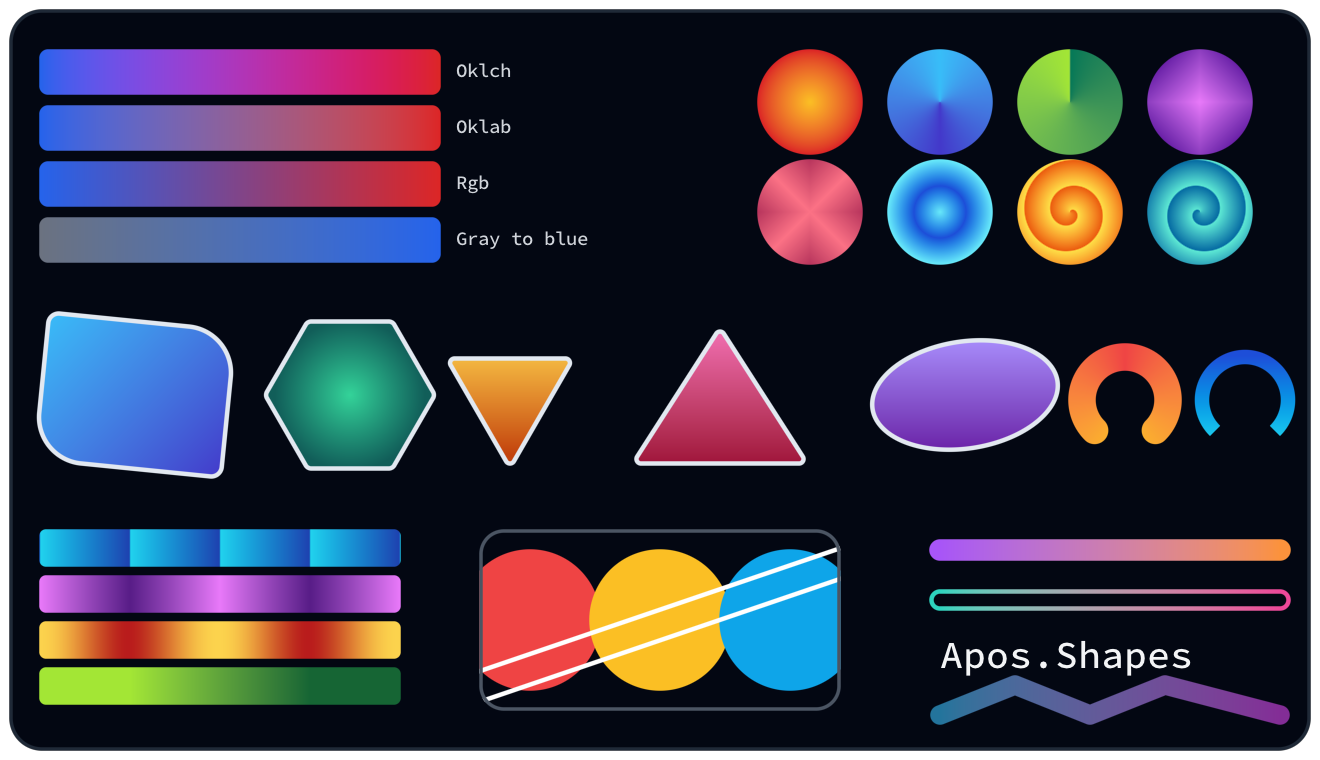
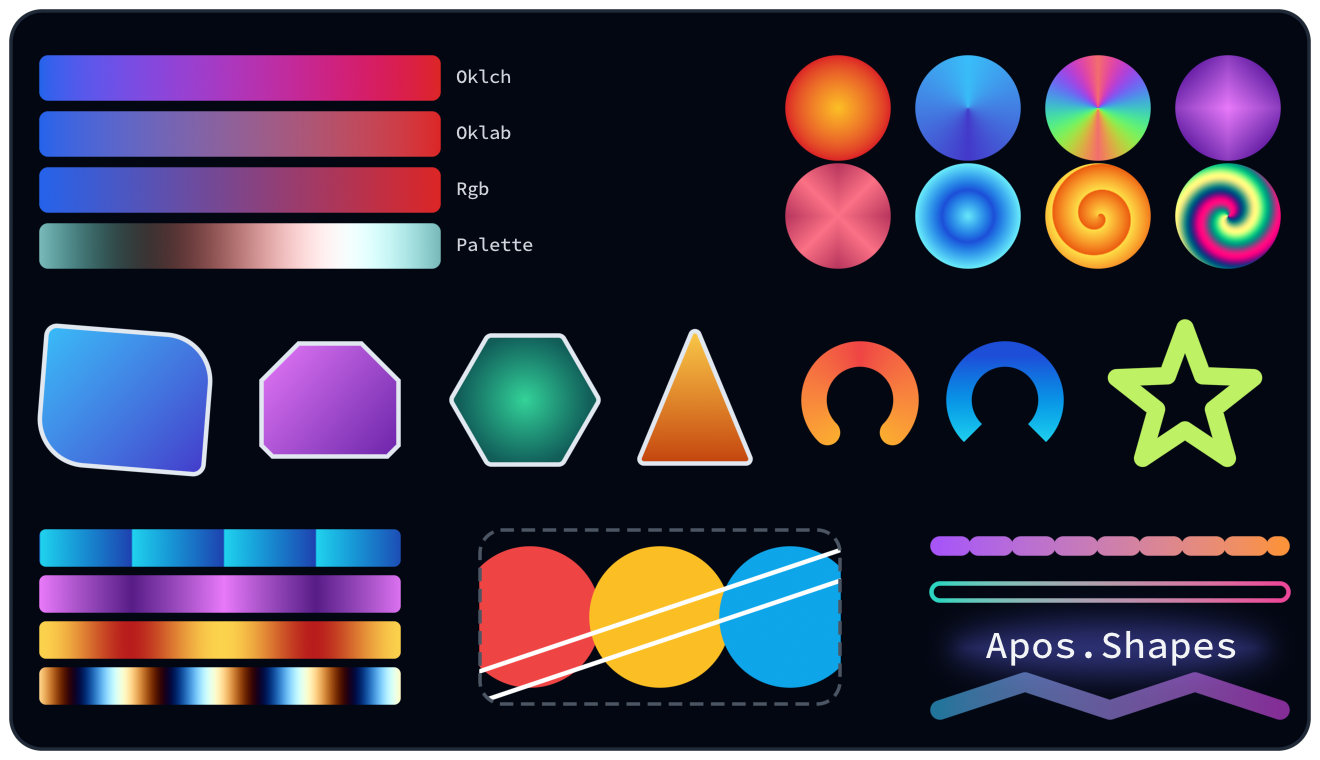
Redo showcase

diff --git a/Example/Game/GameRoot.cs b/Example/Game/GameRoot.cs
@@ -152,62 +152,79 @@ namespace GameProject {
         private void DrawMainScene(FontStashSharp.SpriteFontBase font, FontStashSharp.SpriteFontBase titleFont) {
             _sb.Begin(_camera.View);
 
-            // The same two colors interpolated in each supported color space.
+            float offset = _dashOffset;
+            var half = new Vector3(0.5f);
+            // Palettes from the classic parameter sets at iquilezles.org/articles/palettes, which
+            // are tuned for Rgb channels. The wheel and the bar lift the bias and shrink the
+            // amplitude so their troughs stay clear of the background.
+            var muted = new Palette(new Vector3(0.6f), new Vector3(0.4f), new Vector3(1f), new Vector3(0.3f, 0.2f, 0.2f));
+            var wheel = new Palette(new Vector3(0.6f), new Vector3(0.35f), new Vector3(1f), new Vector3(0f, 0.33f, 0.67f));
+            var candy = new Palette(half, half, new Vector3(2f, 1f, 0f), new Vector3(0.5f, 0.2f, 0.25f));
+
+            // The same two colors interpolated in each color space, then a cosine palette in the
+            // fourth bar.
             _sb.ColorSpace = ColorSpace.Oklch;
-            _sb.FillRectangle(new Vector2(-620, -330), new Vector2(400, 44), new Gradient(new Vector2(-620, -308), TWColor.Blue600, new Vector2(-220, -308), TWColor.Red600), 8f);
-            _sb.DrawString(font, "Oklch", new Vector2(-204, -322), TWColor.Gray300);
+            _sb.FillRectangle(new Vector2(-620, -324), new Vector2(400, 44), new Gradient(new Vector2(-620, -302), TWColor.Blue600, new Vector2(-220, -302), TWColor.Red600), 8f);
+            _sb.DrawString(font, "Oklch", new Vector2(-204, -316), TWColor.Gray300);
             _sb.ColorSpace = ColorSpace.Oklab;
-            _sb.FillRectangle(new Vector2(-620, -274), new Vector2(400, 44), new Gradient(new Vector2(-620, -252), TWColor.Blue600, new Vector2(-220, -252), TWColor.Red600), 8f);
-            _sb.DrawString(font, "Oklab", new Vector2(-204, -266), TWColor.Gray300);
+            _sb.FillRectangle(new Vector2(-620, -268), new Vector2(400, 44), new Gradient(new Vector2(-620, -246), TWColor.Blue600, new Vector2(-220, -246), TWColor.Red600), 8f);
+            _sb.DrawString(font, "Oklab", new Vector2(-204, -260), TWColor.Gray300);
             _sb.ColorSpace = ColorSpace.Rgb;
-            _sb.FillRectangle(new Vector2(-620, -218), new Vector2(400, 44), new Gradient(new Vector2(-620, -196), TWColor.Blue600, new Vector2(-220, -196), TWColor.Red600), 8f);
-            _sb.DrawString(font, "Rgb", new Vector2(-204, -210), TWColor.Gray300);
-            _sb.ColorSpace = ColorSpace.Oklch;
-            // Gray stops have no hue of their own, Oklch holds the blue hue steady.
-            _sb.FillRectangle(new Vector2(-620, -162), new Vector2(400, 44), new Gradient(new Vector2(-620, -140), TWColor.Gray500, new Vector2(-220, -140), TWColor.Blue600), 8f);
-            _sb.DrawString(font, "Gray to blue", new Vector2(-204, -154), TWColor.Gray300);
+            _sb.FillRectangle(new Vector2(-620, -212), new Vector2(400, 44), new Gradient(new Vector2(-620, -190), TWColor.Blue600, new Vector2(-220, -190), TWColor.Red600), 8f);
+            _sb.DrawString(font, "Rgb", new Vector2(-204, -204), TWColor.Gray300);
+            _sb.FillRectangle(new Vector2(-620, -156), new Vector2(400, 44), new Gradient(new Vector2(-620, -134), new Vector2(-220, -134), muted), 8f);
+            _sb.DrawString(font, "Palette", new Vector2(-204, -148), TWColor.Gray300);
             _sb.ColorSpace = ColorSpace.Oklab;
 
-            // Gradient shapes in a 4x2 grid, aligned vertically with the color space bars.
-            _sb.FillCircle(new Vector2(150, -278), 52, new Gradient(new Vector2(150, -278), TWColor.Amber400, new Vector2(202, -278), TWColor.Red600, Gradient.Shape.Radial));
-            _sb.FillCircle(new Vector2(280, -278), 52, new Gradient(new Vector2(280, -278), TWColor.Sky400, new Vector2(280, -330), TWColor.Indigo700, Gradient.Shape.Conical));
-            _sb.FillCircle(new Vector2(410, -278), 52, new Gradient(new Vector2(410, -278), TWColor.Lime400, new Vector2(410, -330), TWColor.Emerald700, Gradient.Shape.ConicalAsym));
-            _sb.FillCircle(new Vector2(540, -278), 52, new Gradient(new Vector2(540, -278), TWColor.Fuchsia400, new Vector2(503, -315), TWColor.Purple800, Gradient.Shape.Square));
-            _sb.FillCircle(new Vector2(150, -168), 52, new Gradient(new Vector2(150, -168), TWColor.Rose400, new Vector2(113, -131), TWColor.Pink800, Gradient.Shape.Cross));
-            _sb.FillCircle(new Vector2(280, -168), 52, new Gradient(new Vector2(280, -168), TWColor.Cyan300, new Vector2(306, -168), TWColor.Blue700, Gradient.Shape.Radial, Gradient.RepeatStyle.Triangle));
-            _sb.FillCircle(new Vector2(410, -168), 52, new Gradient(new Vector2(410, -168), TWColor.Yellow300, new Vector2(410, -194), TWColor.Orange600, Gradient.Shape.SpiralCW));
-            _sb.FillCircle(new Vector2(540, -168), 52, new Gradient(new Vector2(540, -168), TWColor.Teal300, new Vector2(540, -194), TWColor.Sky700, Gradient.Shape.SpiralCCW));
+            // Gradient shapes in a 4x2 grid that shares its top and bottom edges with the bars.
+            _sb.FillCircle(new Vector2(178, -272), 52, new Gradient(new Vector2(178, -272), TWColor.Amber400, new Vector2(230, -272), TWColor.Red600, Gradient.Shape.Radial));
+            _sb.FillCircle(new Vector2(308, -272), 52, new Gradient(new Vector2(308, -272), TWColor.Sky400, new Vector2(308, -324), TWColor.Indigo700, Gradient.Shape.Conical));
+            _sb.FillCircle(new Vector2(568, -272), 52, new Gradient(new Vector2(568, -272), TWColor.Fuchsia400, new Vector2(531, -309), TWColor.Purple800, Gradient.Shape.Square));
+            _sb.FillCircle(new Vector2(178, -164), 52, new Gradient(new Vector2(178, -164), TWColor.Rose400, new Vector2(141, -127), TWColor.Pink800, Gradient.Shape.Cross));
+            _sb.FillCircle(new Vector2(308, -164), 52, new Gradient(new Vector2(308, -164), TWColor.Cyan300, new Vector2(334, -164), TWColor.Blue700, Gradient.Shape.Radial, Gradient.RepeatStyle.Triangle));
+            _sb.FillCircle(new Vector2(438, -164), 52, new Gradient(new Vector2(438, -164), TWColor.Yellow300, new Vector2(438, -190), TWColor.Orange600, Gradient.Shape.SpiralCW));
+            // A palette rides the two color slots a pair of stops uses, so any gradient shape takes one.
+            _sb.ColorSpace = ColorSpace.Rgb;
+            _sb.FillCircle(new Vector2(438, -272), 52, new Gradient(new Vector2(438, -272), new Vector2(438, -324), wheel, Gradient.Shape.Conical));
+            _sb.FillCircle(new Vector2(568, -164), 52, new Gradient(new Vector2(568, -164), new Vector2(568, -216), candy, Gradient.Shape.SpiralCCW));
+            _sb.ColorSpace = ColorSpace.Oklab;
 
-            // Shapes with fills, borders, rounding and local gradients.
-            _sb.DrawRectangle(new Vector2(-620, -60), new Vector2(190, 150), new Gradient(new Vector2(0, 0), TWColor.Sky400, new Vector2(190, 150), TWColor.Indigo700, isLocal: true), TWColor.Slate200, 3f, new CornerRadii(12, 48, 12, 48), rotation: 0.1f);
-            _sb.DrawHexagon(new Vector2(-310, 15), 75, new Gradient(new Vector2(0, 0), TWColor.Emerald400, new Vector2(0, 75), TWColor.Teal800, Gradient.Shape.Radial, isLocal: true), TWColor.Slate200, 3f, rounded: 8f);
-            _sb.DrawEquilateralTriangle(new Vector2(-150, 15), 38, new Gradient(new Vector2(0, -60), TWColor.Amber300, new Vector2(0, 60), TWColor.Orange700, isLocal: true), TWColor.Slate200, 3f, rounded: 6f);
-            _sb.DrawTriangle(new Vector2(-30, 85), new Vector2(60, -55), new Vector2(150, 85), new Gradient(new Vector2(60, -55), TWColor.Pink400, new Vector2(60, 85), TWColor.Rose800), TWColor.Slate200, 3f, rounded: 6f);
-            _sb.DrawEllipse(new Vector2(305, 15), 95, 55, new Gradient(new Vector2(305, -40), TWColor.Violet400, new Vector2(305, 70), TWColor.Purple800), TWColor.Slate200, 3f, rotation: -0.15f);
-            _sb.FillArc(new Vector2(465, 20), MathF.PI * 0.75f, MathF.PI * 2.25f, 44, 13, new Gradient(new Vector2(465, 20), TWColor.Red500, new Vector2(465, -37), TWColor.Amber400, Gradient.Shape.Conical));
-            _sb.FillRing(new Vector2(585, 20), MathF.PI * 0.75f, MathF.PI * 2.25f, 44, 13, new Gradient(new Vector2(585, 64), TWColor.Cyan400, new Vector2(585, -24), TWColor.Blue700));
+            // One of each silhouette on a shared center line.
+            _sb.DrawRectangle(new Vector2(-620, -50), new Vector2(170, 140), new Gradient(new Vector2(0, 0), TWColor.Sky400, new Vector2(170, 140), TWColor.Indigo700, isLocal: true), TWColor.Slate200, 3f, new CornerRadii(12, 48, 12, 48), rotation: 0.08f);
+            _sb.DrawChamfer(new Vector2(-400, -38), new Vector2(140, 116), new CornerChamfers(38f, 38f, 12f, 12f), new Gradient(new Vector2(0, 0), TWColor.Fuchsia400, new Vector2(140, 116), TWColor.Purple800, isLocal: true), TWColor.Slate200, 3f);
+            _sb.DrawHexagon(new Vector2(-135, 20), 66, new Gradient(new Vector2(0, 0), TWColor.Emerald400, new Vector2(0, 66), TWColor.Teal800, Gradient.Shape.Radial, isLocal: true), TWColor.Slate200, 3f, rounded: 8f);
+            _sb.DrawTriangle(new Vector2(-25, 85), new Vector2(35, -60), new Vector2(95, 85), new Gradient(new Vector2(35, -60), TWColor.Amber300, new Vector2(35, 85), TWColor.Orange700), TWColor.Slate200, 3f, rounded: 6f);
+            _sb.FillArc(new Vector2(200, 20), MathF.PI * 0.75f, MathF.PI * 2.25f, 46, 12, new Gradient(new Vector2(200, 20), TWColor.Red500, new Vector2(200, -38), TWColor.Amber400, Gradient.Shape.Conical));
+            _sb.FillRing(new Vector2(345, 20), MathF.PI * 0.75f, MathF.PI * 2.25f, 46, 12, new Gradient(new Vector2(345, 64), TWColor.Cyan400, new Vector2(345, -24), TWColor.Blue700));
+            // A closed path wraps back on itself, and the wrap joint blends like any other.
+            _sb.FillPath(Star(new Vector2(525, 20), 72, 30, 5), 8, TWColor.Lime300, closed: true);
 
-            // Repeat styles, plus offsets that hold the end colors solid before the transition starts.
-            _sb.FillRectangle(new Vector2(-620, 150), new Vector2(360, 36), new Gradient(new Vector2(-620, 168), TWColor.Cyan400, new Vector2(-530, 168), TWColor.Blue800, Gradient.Shape.Linear, Gradient.RepeatStyle.Sawtooth), 6f);
-            _sb.FillRectangle(new Vector2(-620, 196), new Vector2(360, 36), new Gradient(new Vector2(-620, 214), TWColor.Fuchsia400, new Vector2(-530, 214), TWColor.Purple900, Gradient.Shape.Linear, Gradient.RepeatStyle.Triangle), 6f);
-            _sb.FillRectangle(new Vector2(-620, 242), new Vector2(360, 36), new Gradient(new Vector2(-620, 260), TWColor.Amber300, new Vector2(-530, 260), TWColor.Red700, Gradient.Shape.Linear, Gradient.RepeatStyle.Sine), 6f);
-            _sb.FillRectangle(new Vector2(-620, 288), new Vector2(360, 36), new Gradient(new Vector2(-620, 306), TWColor.Lime400, new Vector2(-260, 306), TWColor.Green800, Gradient.Shape.Linear, Gradient.RepeatStyle.None, 90f, 90f), 6f);
+            // Repeat styles over a frame a quarter of the bar, and a palette whose whole number
+            // frequency tiles the Sawtooth with no seam. Its phase slides over time.
+            _sb.FillRectangle(new Vector2(-620, 150), new Vector2(360, 36), new Gradient(new Vector2(-620, 168), TWColor.Cyan400, new Vector2(-528, 168), TWColor.Blue800, Gradient.Shape.Linear, Gradient.RepeatStyle.Sawtooth), 6f);
+            _sb.FillRectangle(new Vector2(-620, 196), new Vector2(360, 36), new Gradient(new Vector2(-620, 214), TWColor.Fuchsia400, new Vector2(-528, 214), TWColor.Purple900, Gradient.Shape.Linear, Gradient.RepeatStyle.Triangle), 6f);
+            _sb.FillRectangle(new Vector2(-620, 242), new Vector2(360, 36), new Gradient(new Vector2(-620, 260), TWColor.Amber300, new Vector2(-528, 260), TWColor.Red700, Gradient.Shape.Linear, Gradient.RepeatStyle.Sine), 6f);
+            _sb.ColorSpace = ColorSpace.Rgb;
+            float slide = offset * 0.2f;
+            _sb.FillRectangle(new Vector2(-620, 288), new Vector2(360, 36), new Gradient(new Vector2(-620, 306), new Vector2(-528, 306), new Palette(half, half, new Vector3(1f), new Vector3(slide, 0.1f + slide, 0.2f + slide)), Gradient.Shape.Linear, Gradient.RepeatStyle.Sawtooth), 6f);
+            _sb.ColorSpace = ColorSpace.Oklab;
 
-            // Clipping without breaking the batch.
-            _sb.SetClipRect(new RectangleF(-180, 150, 360, 180), 24f);
-            _sb.FillCircle(new Vector2(-130, 240), 70, TWColor.Red500);
-            _sb.FillCircle(new Vector2(0, 240), 70, TWColor.Amber400);
-            _sb.FillCircle(new Vector2(130, 240), 70, TWColor.Sky500);
-            _sb.BorderLine(new Vector2(-220, 320), new Vector2(220, 170), 16, TWColor.White, 3f);
+            // Clipping without breaking the batch. The window outline is dashed, and it marches.
+            _sb.SetClipRect(new RectangleF(-180, 150, 360, 174), 24f);
+            _sb.FillCircle(new Vector2(-130, 237), 70, TWColor.Red500);
+            _sb.FillCircle(new Vector2(0, 237), 70, TWColor.Amber400);
+            _sb.FillCircle(new Vector2(130, 237), 70, TWColor.Sky500);
+            _sb.BorderLine(new Vector2(-220, 320), new Vector2(220, 172), 16, TWColor.White, 3f);
             _sb.SetClipRect(null);
-            _sb.BorderRectangle(new Vector2(-180, 150), new Vector2(360, 180), TWColor.Gray600, 2f, new CornerRadii(24));
+            _sb.BorderRectangle(new Vector2(-181, 149), new Vector2(362, 176), TWColor.Gray600, 2f, new CornerRadii(24), dash: new DashStyle(12f, 9f, offset));
 
-            // Lines and text.
-            _sb.FillLine(new Vector2(280, 170), new Vector2(620, 170), 10, new Gradient(new Vector2(280, 170), TWColor.Purple500, new Vector2(620, 170), TWColor.Orange400));
-            _sb.BorderLine(new Vector2(280, 220), new Vector2(620, 220), 10, new Gradient(new Vector2(280, 220), TWColor.Teal400, new Vector2(620, 220), TWColor.Pink500), 3f);
-            _sb.DrawString(titleFont, "Apos.Shapes", new Vector2(280, 250), TWColor.Gray100);
-            // A translucent path blends once even where segments meet, and gradients span the whole stroke.
-            _sb.FillPath([new Vector2(280, 335), new Vector2(355, 305), new Vector2(430, 335), new Vector2(505, 305), new Vector2(620, 335)], 9, new Gradient(new Vector2(280, 320), new Color(TWColor.Sky400, 0.6f), new Vector2(620, 320), new Color(TWColor.Fuchsia500, 0.6f)));
+            // Lines, text over a blurred glow, and a translucent path that blends once even at the
+            // joints.
+            _sb.FillLine(new Vector2(280, 166), new Vector2(620, 166), 9, new Gradient(new Vector2(280, 166), TWColor.Purple500, new Vector2(620, 166), TWColor.Orange400), dash: new DashStyle(26f, 18f, offset, cap: DashCap.Round));
+            _sb.BorderLine(new Vector2(280, 212), new Vector2(620, 212), 10, new Gradient(new Vector2(280, 212), TWColor.Teal400, new Vector2(620, 212), TWColor.Pink500), 3f);
+            _sb.FillEllipseBlurred(new Vector2(450, 268), 150, 26, new Color(TWColor.Indigo500, 0.45f), 16f);
+            _sb.DrawString(titleFont, "Apos.Shapes", new Vector2(325, 240), TWColor.Gray100);
+            _sb.FillPath([new Vector2(280, 330), new Vector2(365, 302), new Vector2(450, 330), new Vector2(535, 302), new Vector2(620, 330)], 9, new Gradient(new Vector2(280, 316), new Color(TWColor.Sky400, 0.6f), new Vector2(620, 316), new Color(TWColor.Fuchsia500, 0.6f)));
 
             _sb.End();
         }
